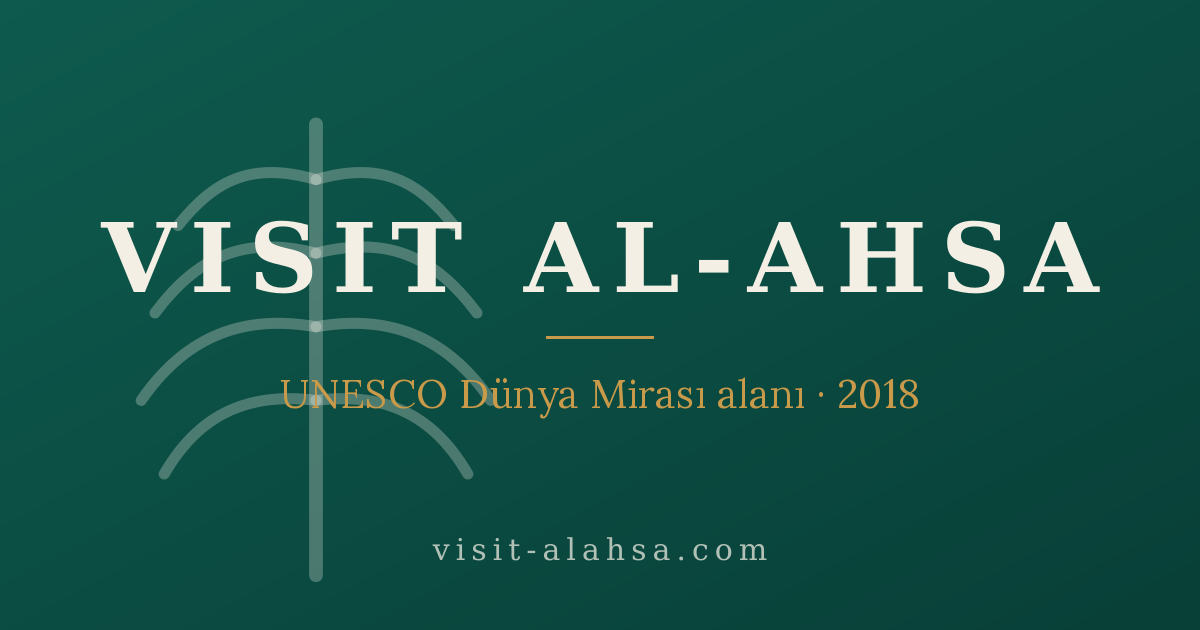
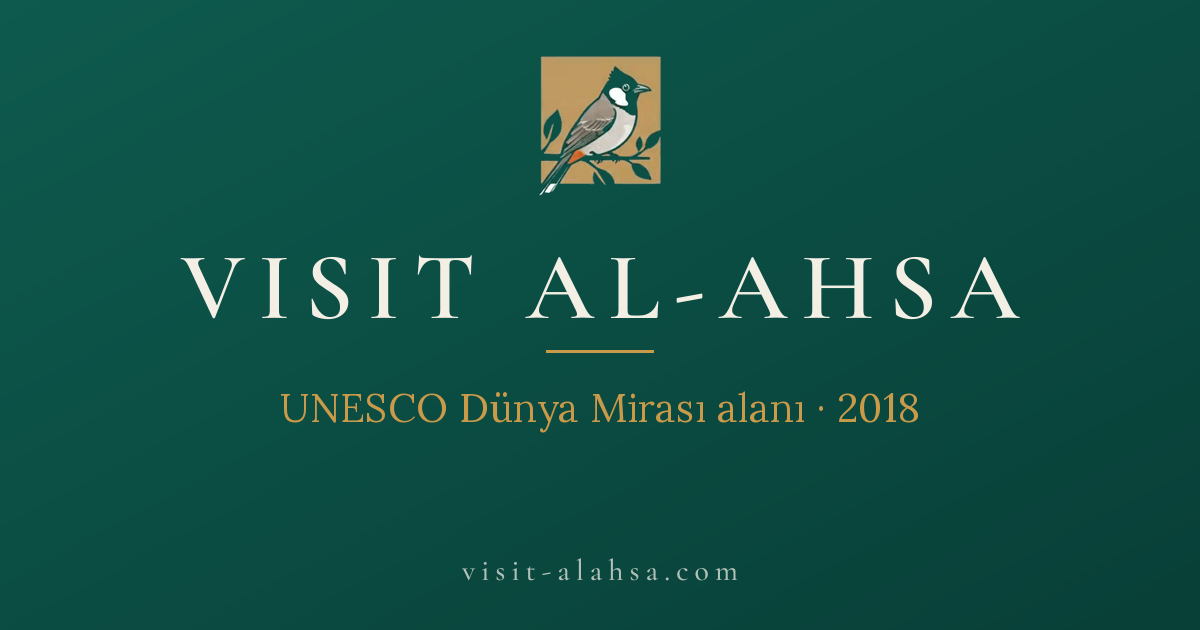
feat(og): bulbul emblem on default share cards; generate the Arabic card
Replace the palm-frond motif with the site emblem on all seven default
Open Graph cards. The Arabic card is now generated too (Cairo + IBM Plex
Sans Arabic from font files) with the tagline 'largest oasis in the world'
without the palm qualifier. Latin text renders from Cormorant/Lora font
files through fontconfig so the cards no longer depend on system fonts.

diff --git a/src/lib/og.ts b/src/lib/og.ts
@@ -1,5 +1,5 @@
 // صورة Open Graph الافتراضية بلغة الصفحة — الخطوة 4 من خطة التفاعل العالمي.
-// العربية تبقى og-default.png الأصلية؛ والبقية تولّدها tools/gen-og-images.mjs.
+// og-default.png للعربية وog-default-{lang}.png لغيرها، وكلها تولّدها tools/gen-og-images.mjs.
 // والتركية بسطرها المعتمد (home.hero.eyebrow، دفعة tr-attr-12) من ملف خط Lora المدمج.
 // مصدر واحد تستعمله Seo.astro وكتل JSON-LD التي تحمل حقل image.
 import type { Lang } from '../i18n/ui';
